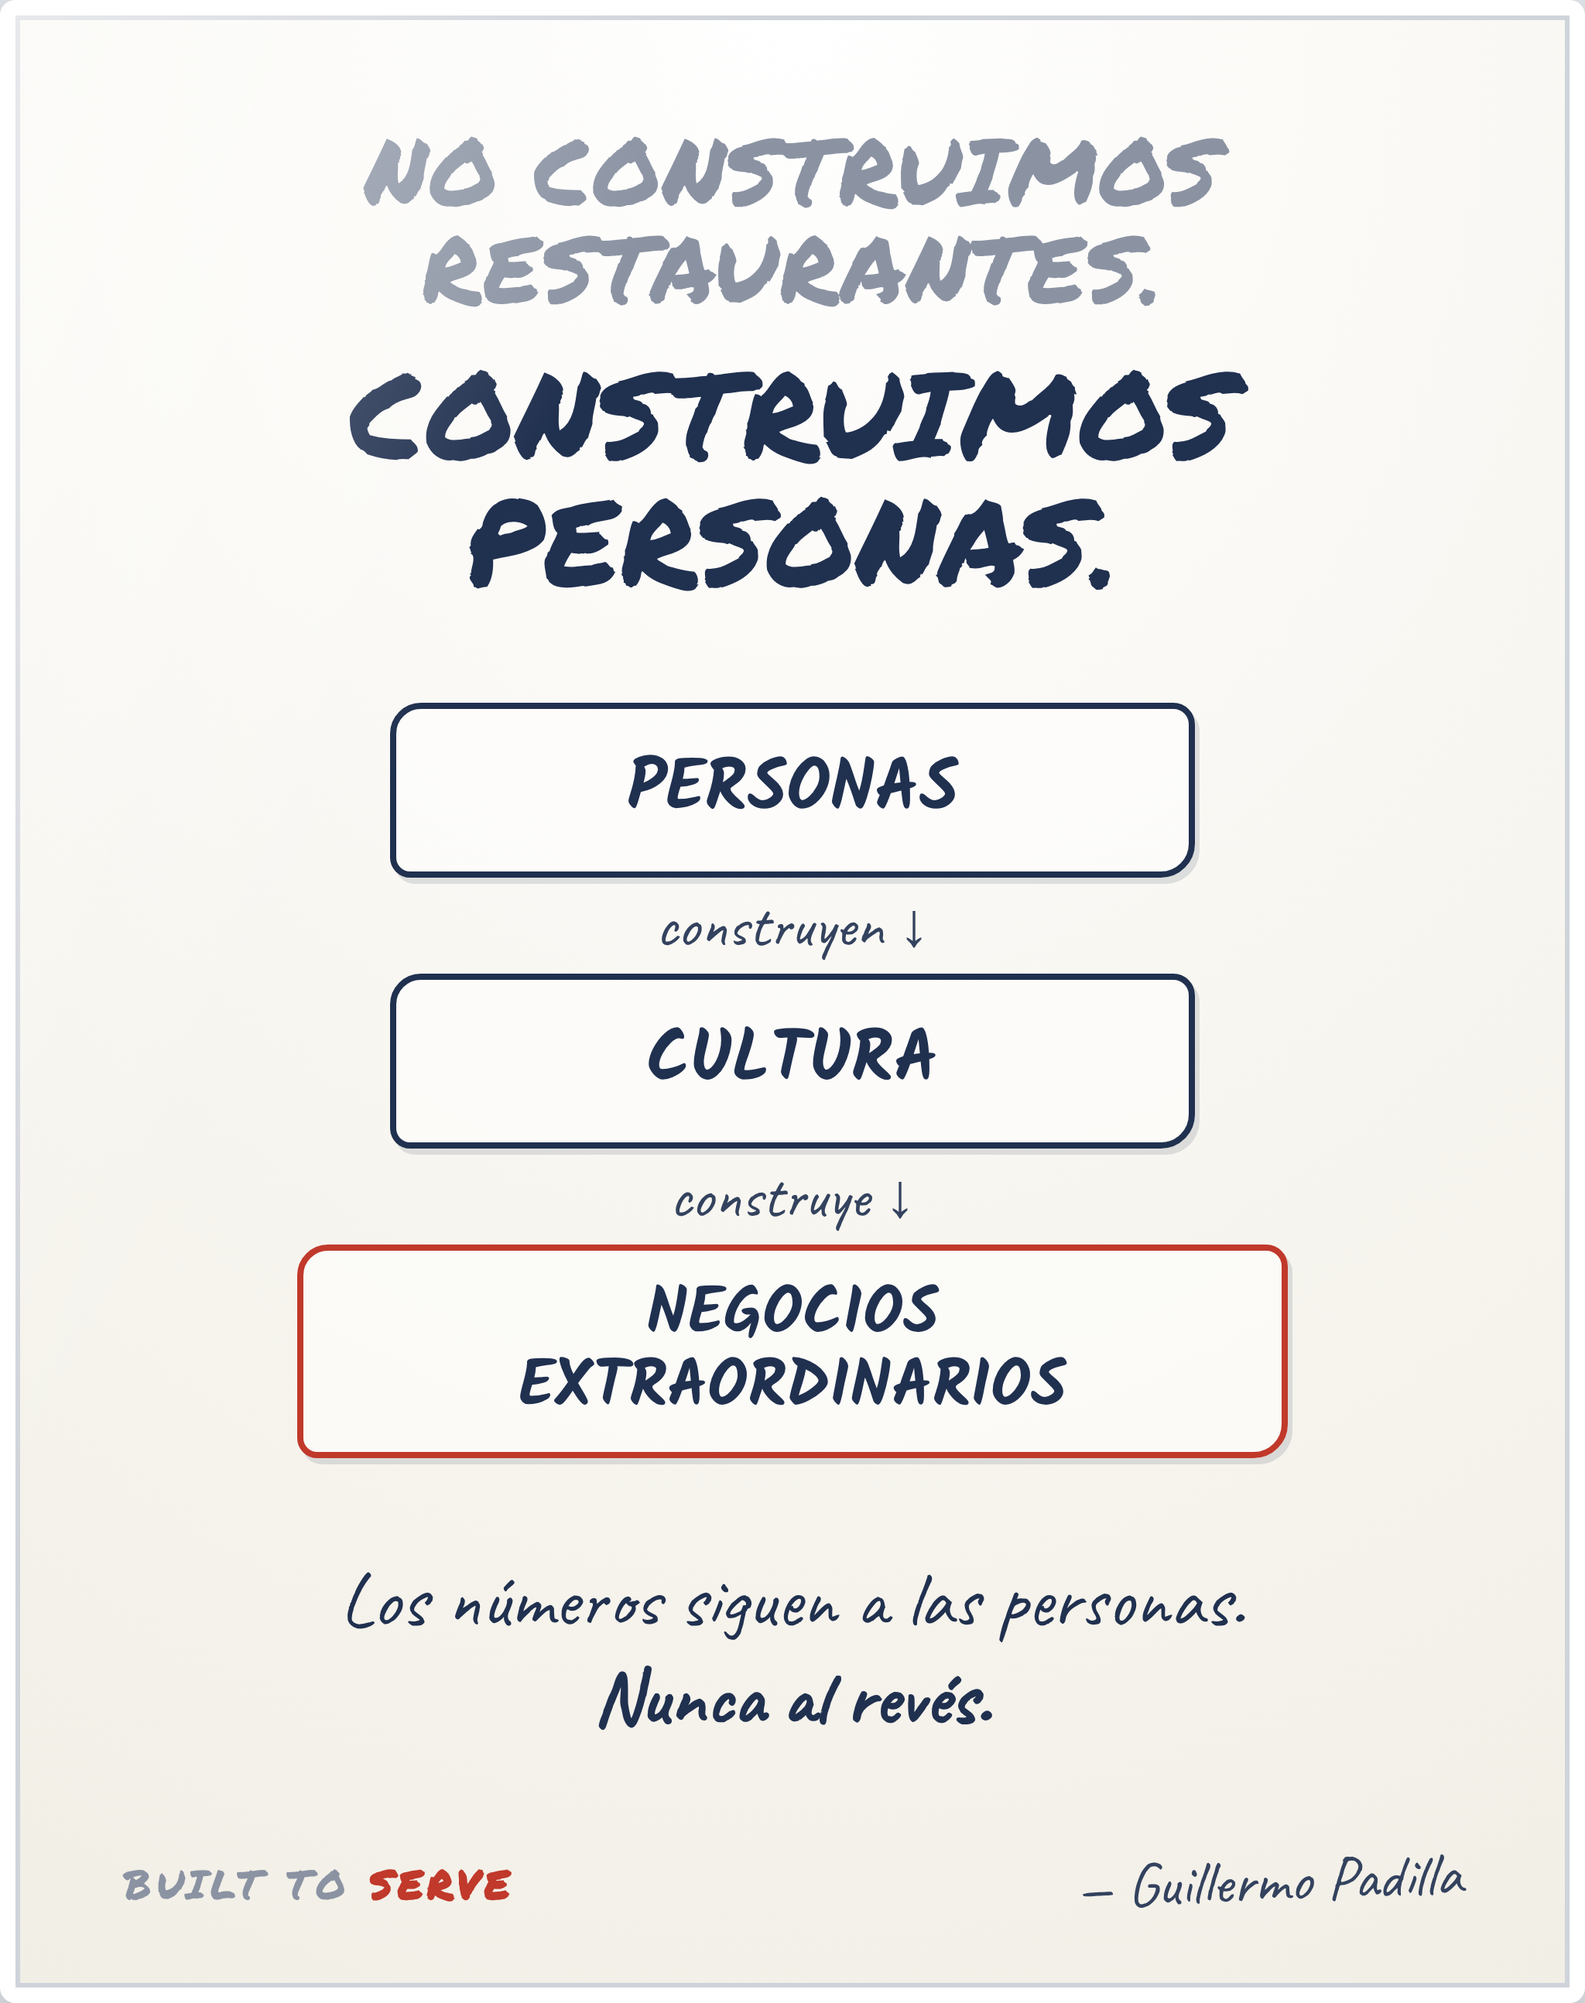
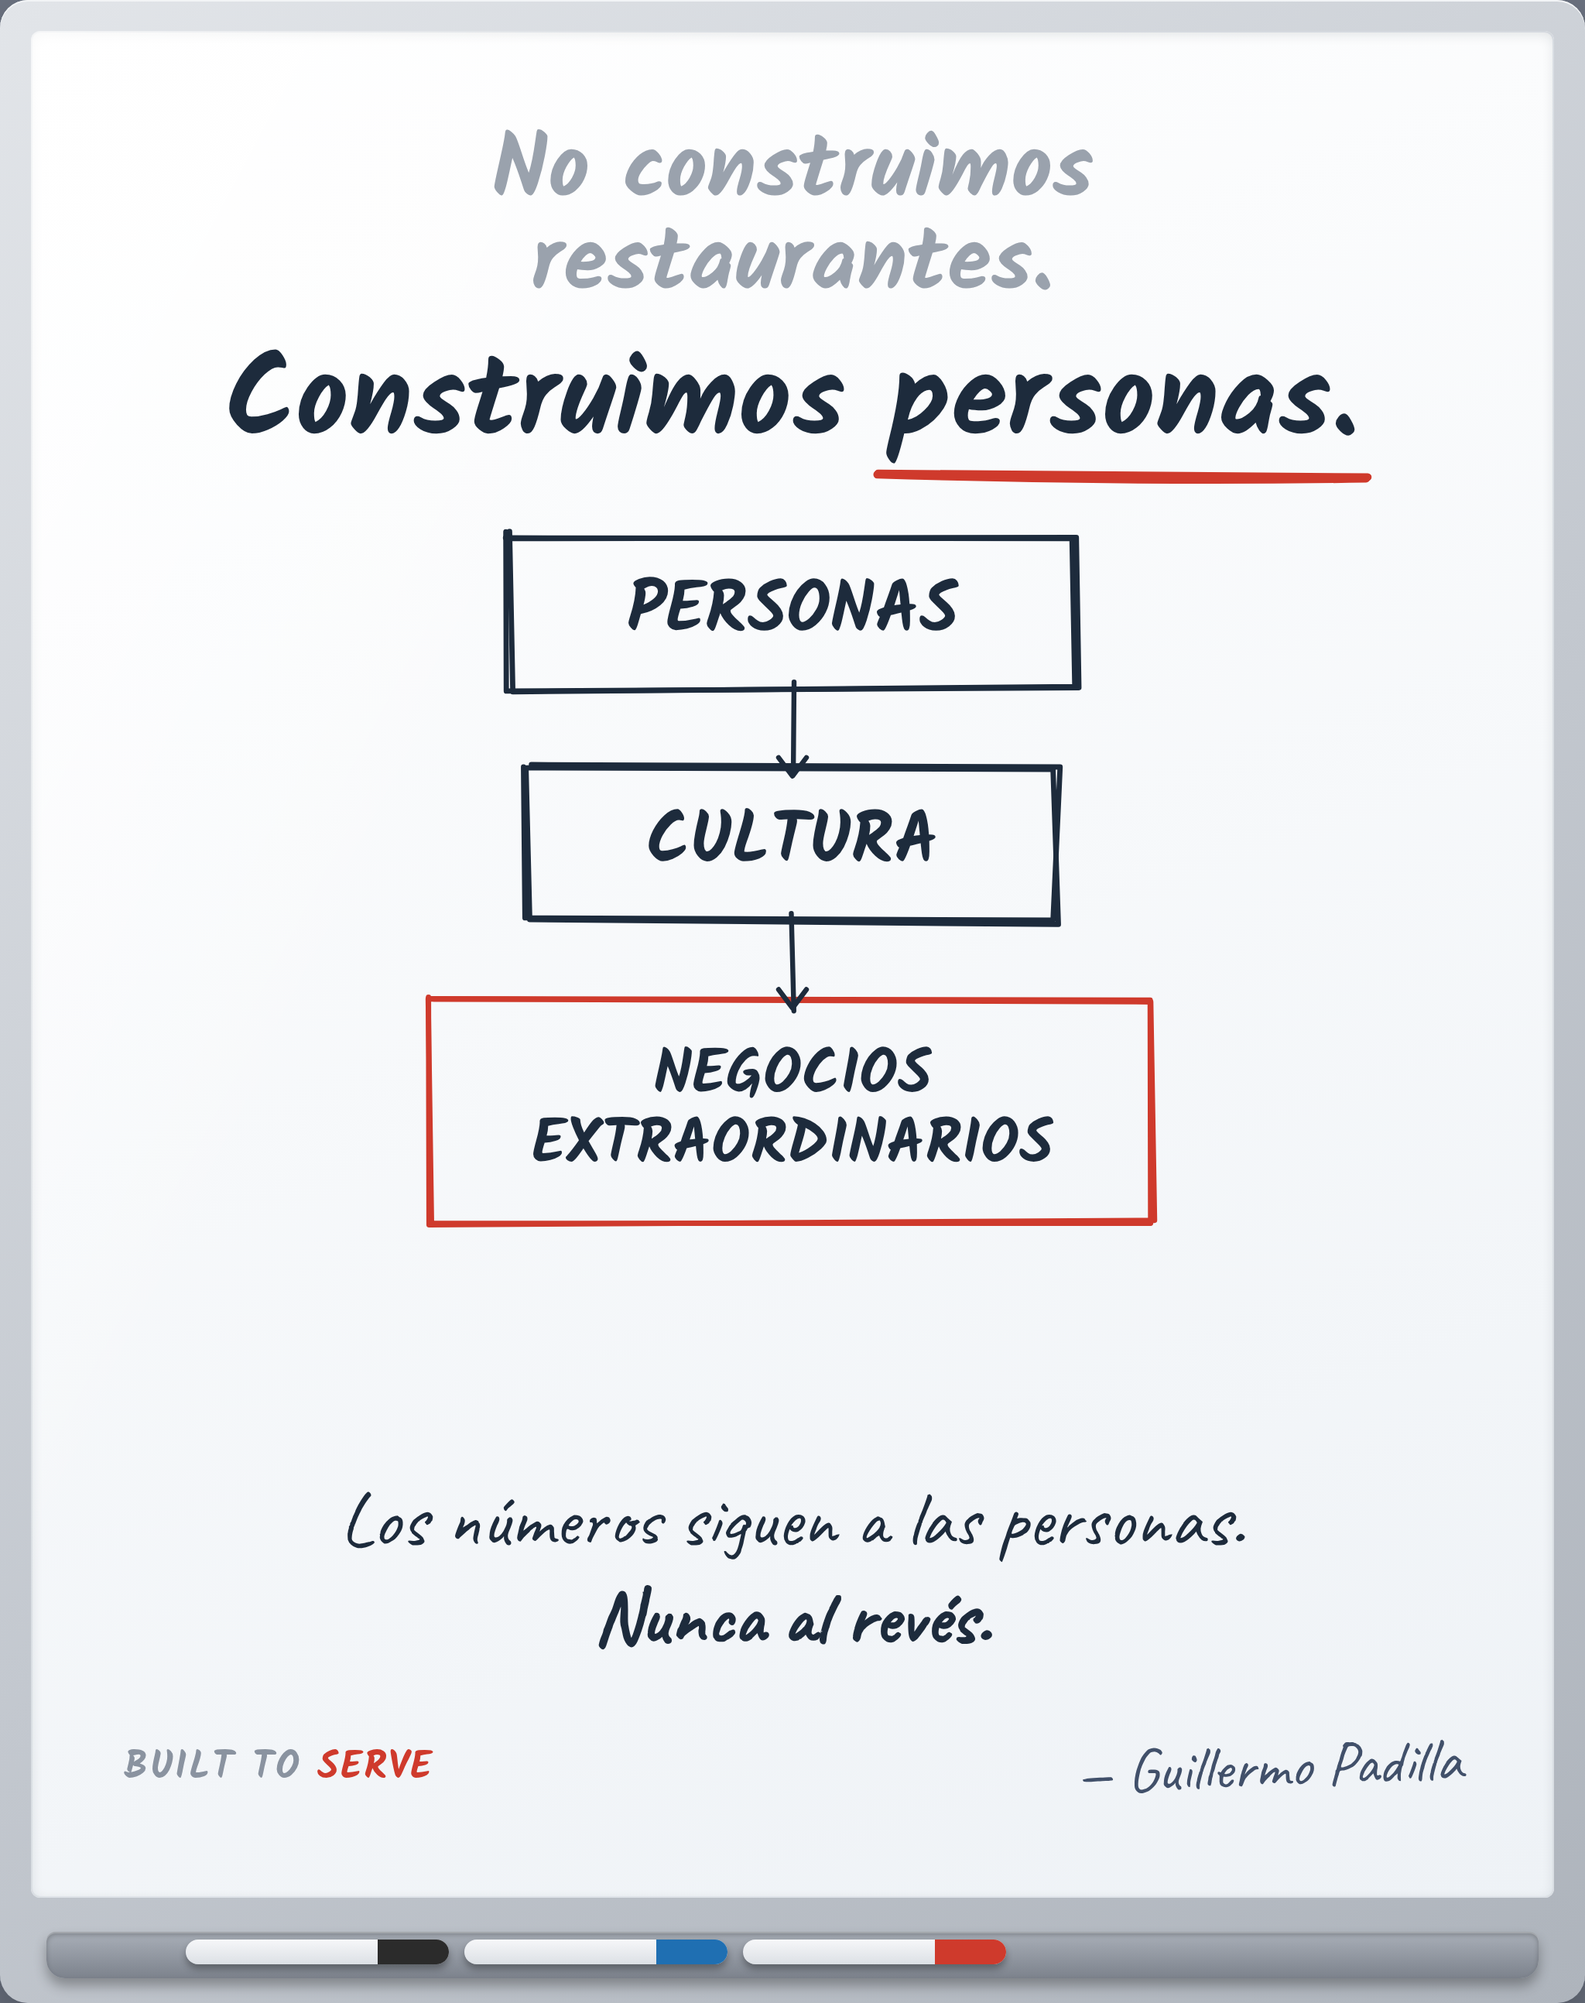
graphics: rediseño a estilo pizarrón real (marco aluminio, marcadores, trazo a mano)
Motor de trazos a mano propio en SVG (cajas/flechas/subrayados con temblor
de marcador), superficie blanca con marco de aluminio y bandeja con
marcadores. Reemplaza la versión póster anterior.

Claude-Session: https://claude.ai/code/session_01JJ9xPjka53SvgJ9SDN74dX

diff --git a/built-to-serve/tools/graphics/gen.py b/built-to-serve/tools/graphics/gen.py
@@ -1,144 +1,187 @@
 import os
 BASE = os.path.dirname(os.path.abspath(__file__))
+# gen.py vive en built-to-serve/tools/graphics cuando se copia al repo;
+# en scratch las fuentes están en ./fonts también.
 FONTS = open(os.path.join(BASE, "fonts", "fonts.css")).read()
+
+# Motor de trazos a mano (rough) propio, en el navegador. Dibuja cajas,
+# subrayados y flechas con "temblor" de marcador sobre un overlay SVG,
+# midiendo los elementos reales tras cargar las fuentes.
+DRAW = r"""
+function j(n){return (Math.random()*2-1)*n}
+function ns(){return document.createElementNS('http://www.w3.org/2000/svg','path')}
+function add(svg,d,color,w){var p=ns();p.setAttribute('d',d);p.setAttribute('fill','none');
+  p.setAttribute('stroke',color);p.setAttribute('stroke-width',w);p.setAttribute('stroke-linecap','round');
+  p.setAttribute('stroke-linejoin','round');svg.appendChild(p);}
+function rect(svg,x,y,w,h,color,sw){
+  for(var k=0;k<2;k++){var d='M '+(x+j(2.5))+' '+(y+j(2.5))+' L '+(x+w+j(2.5))+' '+(y+j(2.5))+
+    ' L '+(x+w+j(2.5))+' '+(y+h+j(2.5))+' L '+(x+j(2.5))+' '+(y+h+j(2.5))+
+    ' L '+(x-2+j(2.5))+' '+(y+j(2.5));add(svg,d,color,sw);}
+}
+function uline(svg,x,y,w,color,sw){
+  for(var k=0;k<2;k++){var mx=x+w/2; var d='M '+(x+j(2))+' '+(y+j(2))+
+    ' Q '+(mx+j(3))+' '+(y+3+j(3))+' '+(x+w+j(2))+' '+(y+j(2));add(svg,d,color,sw);}
+}
+function arrow(svg,cx,y1,y2,color,sw){
+  var d='M '+(cx+j(2))+' '+(y1+j(2))+' L '+(cx+j(2.5))+' '+(y2+j(2));add(svg,d,color,sw);
+  add(svg,'M '+(cx-9)+' '+(y2-12)+' L '+cx+' '+y2+' L '+(cx+9)+' '+(y2-12),color,sw);
+}
+var COL={ink:'#1d2b3c',red:'#cf3a2c',blue:'#1f6fb2'};
+function draw(){
+  var surf=document.querySelector('.surface');
+  var svg=document.querySelector('#ink');
+  var sb=surf.getBoundingClientRect();
+  svg.setAttribute('width',surf.clientWidth);svg.setAttribute('height',surf.clientHeight);
+  document.querySelectorAll('.ink-box').forEach(function(e){var r=e.getBoundingClientRect();
+    rect(svg,r.left-sb.left-16,r.top-sb.top-12,r.width+32,r.height+24,COL[e.dataset.c||'ink'],3.4);});
+  document.querySelectorAll('.ink-u').forEach(function(e){var r=e.getBoundingClientRect();
+    uline(svg,r.left-sb.left-6,r.bottom-sb.top+8,r.width+12,COL[e.dataset.c||'blue'],5);});
+  document.querySelectorAll('.ink-arrow').forEach(function(e){var r=e.getBoundingClientRect();
+    arrow(svg,r.left-sb.left+r.width/2,r.top-sb.top+6,r.bottom-sb.top-6,COL[e.dataset.c||'ink'],3.2);});
+  document.body.setAttribute('data-drawn','1');
+}
+if(document.fonts&&document.fonts.ready){document.fonts.ready.then(function(){setTimeout(draw,60)});}
+else{window.addEventListener('load',draw);}
+"""
 
 HEAD = """<!doctype html><html><head><meta charset="utf-8"><style>
 __FONTS__
-:root{
-  --ink:#20304f; --ink2:#33425e; --red:#c0392b; --blue:#2f6fb0;
-  --paper:#f7f5ef; --frame:#dfe2e7;
-}
+:root{ --ink:#1d2b3c; --red:#cf3a2c; --blue:#1f6fb2; }
 *{margin:0;padding:0;box-sizing:border-box}
 html,body{width:1080px;height:1350px}
-body{
-  background:var(--frame);
-  display:flex;align-items:center;justify-content:center;
-  font-family:'Hand',system-ui,sans-serif;color:var(--ink);
-}
-.board{
-  position:relative;width:1024px;height:1294px;border-radius:10px;
-  background:
-    radial-gradient(120% 120% at 50% 0%, #ffffff 0%, var(--paper) 55%, #f0ede4 100%);
-  box-shadow: inset 0 0 0 10px #ffffff, inset 0 0 0 13px #cfd3da,
-              0 18px 40px rgba(0,0,0,.18);
-  padding:78px 74px 70px;
-  overflow:hidden;
-}
-.board:before{ /* faint whiteboard sheen */
-  content:"";position:absolute;inset:0;
-  background:linear-gradient(115deg, rgba(255,255,255,.5) 0%, rgba(255,255,255,0) 30%);
-  pointer-events:none;
-}
-.title{font-family:'Marker';color:var(--ink);line-height:1.02;letter-spacing:.5px}
+body{background:#6b7280;display:flex;align-items:center;justify-content:center;
+  font-family:'Hand',system-ui,sans-serif;color:var(--ink)}
+/* Marco de aluminio */
+.board{position:relative;width:1024px;height:1294px;border-radius:18px;
+  background:linear-gradient(145deg,#e2e5e9,#c3c8cf 55%,#aeb4bc);
+  padding:20px 20px 68px;
+  box-shadow:0 22px 46px rgba(0,0,0,.30), inset 0 1px 0 #f2f4f6;}
+/* Superficie del pizarrón */
+.surface{position:relative;height:100%;background:linear-gradient(160deg,#ffffff,#eef2f6);
+  border-radius:6px;overflow:hidden;
+  box-shadow:inset 0 2px 8px rgba(20,30,45,.12), inset 0 0 0 1px #e6eaef;
+  padding:62px 58px 96px;}
+.surface:before{content:"";position:absolute;inset:0;pointer-events:none;
+  background:linear-gradient(118deg, rgba(255,255,255,.75) 0%, rgba(255,255,255,0) 34%);}
+#ink{position:absolute;inset:0;z-index:1;pointer-events:none}
+.content{position:relative;z-index:2;height:100%;display:flex;flex-direction:column}
+/* Bandeja de marcadores (sobre el marco inferior) */
+.tray{position:absolute;left:30px;right:30px;bottom:16px;height:30px;border-radius:6px 6px 12px 12px;
+  background:linear-gradient(#aab0b9,#7c828c);
+  box-shadow:0 5px 8px rgba(0,0,0,.30), inset 0 2px 3px rgba(0,0,0,.25), inset 0 1px 0 #cdd2d8;}
+.mk{position:absolute;bottom:25px;height:16px;width:170px;border-radius:8px;z-index:3;
+  background:linear-gradient(#f6f7f9,#dce0e5);box-shadow:0 3px 5px rgba(0,0,0,.32)}
+.mk:after{content:"";position:absolute;right:0;top:0;height:16px;width:46px;border-radius:0 8px 8px 0}
+.mk.k{left:120px}.mk.k:after{background:#2b2b2b}
+.mk.b{left:300px}.mk.b:after{background:var(--blue)}
+.mk.r{left:480px}.mk.r:after{background:var(--red)}
+/* Tipografía a mano */
+.t{font-family:'Hand';font-weight:700;color:var(--ink);line-height:1.04}
 .hand{font-family:'Hand'}
 .cav{font-family:'Caveat'}
-.u{position:relative;display:inline-block}
-.u:after{content:"";position:absolute;left:-6px;right:-6px;bottom:-8px;height:12px;
-  background:var(--blue);border-radius:9px;transform:rotate(-1.2deg);opacity:.9;z-index:-1}
-.u.red:after{background:var(--red)}
-.box{border:4px solid var(--ink);border-radius:20px 14px 22px 13px;
-  background:rgba(255,255,255,.55);box-shadow:3px 4px 0 rgba(32,48,79,.13)}
-.sig{position:absolute;right:80px;bottom:54px;font-family:'Caveat';
-  font-size:40px;color:var(--ink2);transform:rotate(-2deg)}
-.mark{position:absolute;left:80px;bottom:58px;font-family:'Marker';
-  font-size:26px;letter-spacing:3px;color:#8b93a3}
-.mark b{color:var(--red)}
-</style></head><body><div class="board">
+.wm{position:absolute;left:60px;bottom:64px;z-index:2;font-family:'Hand';font-weight:700;
+  font-size:25px;letter-spacing:1px;color:#8a93a0}
+.wm b{color:var(--red)}
+.sig{position:absolute;right:60px;bottom:60px;z-index:2;font-family:'Caveat';
+  font-size:40px;color:#41506a;transform:rotate(-2deg)}
+</style></head><body><div class="board"><div class="surface">
+<svg id="ink"></svg>
+<div class="content">
 """.replace("__FONTS__", FONTS)
 
 FOOT = """
-<div class="mark">BUILT TO <b>SERVE</b></div>
+</div>
+<div class="wm">BUILT TO <b>SERVE</b></div>
 <div class="sig">— Guillermo Padilla</div>
-</div></body></html>"""
+</div>
+<div class="tray"></div>
+<div class="mk k"></div><div class="mk b"></div><div class="mk r"></div>
+</div>
+<script>__DRAW__</script>
+</body></html>""".replace("__DRAW__", DRAW)
 
 # ---------- POST 1 : Filosofía ----------
 post1 = """
-<div style="height:100%;display:flex;flex-direction:column">
-  <div style="text-align:center">
-    <div class="title" style="font-size:60px;color:#8b93a3;line-height:1.05">NO CONSTRUIMOS<br>RESTAURANTES.</div>
-    <div class="title" style="font-size:78px;margin-top:22px;line-height:1.05">
-       CONSTRUIMOS<br><span class="u">PERSONAS</span>.</div>
-  </div>
+<div style="text-align:center">
+  <div class="t" style="font-size:58px;color:#9aa2ad">No construimos<br>restaurantes.</div>
+  <div class="t" style="font-size:74px;margin-top:20px">Construimos
+     <span class="ink-u" data-c="red" style="display:inline-block">personas.</span></div>
+</div>
 
-  <div style="margin-top:64px;display:flex;flex-direction:column;align-items:center;gap:6px">
-    <div class="box" style="width:520px;text-align:center;padding:16px 0;font-weight:700;font-size:46px">PERSONAS</div>
-    <div class="cav" style="font-size:40px;color:var(--ink2)">construyen ↓</div>
-    <div class="box" style="width:520px;text-align:center;padding:16px 0;font-weight:700;font-size:46px">CULTURA</div>
-    <div class="cav" style="font-size:40px;color:var(--ink2)">construye ↓</div>
-    <div class="box" style="width:640px;text-align:center;padding:18px 0;font-weight:700;font-size:42px;line-height:1.12;border-color:var(--red)">
-       NEGOCIOS<br>EXTRAORDINARIOS</div>
-  </div>
+<div style="margin-top:58px;display:flex;flex-direction:column;align-items:center;gap:0">
+  <div class="ink-box t" style="font-size:46px;padding:14px 60px">PERSONAS</div>
+  <div class="ink-arrow" style="width:140px;height:74px"></div>
+  <div class="ink-box t" style="font-size:46px;padding:14px 60px">CULTURA</div>
+  <div class="ink-arrow" style="width:140px;height:74px"></div>
+  <div class="ink-box t" data-c="red" style="font-size:40px;padding:16px 48px;text-align:center;line-height:1.12">
+     NEGOCIOS<br>EXTRAORDINARIOS</div>
+</div>
 
-  <div style="margin-top:auto;padding-bottom:96px;text-align:center">
-    <div class="cav" style="font-size:50px;color:var(--ink)">
-       Los números siguen a las personas.<br>
-       <span class="u red" style="font-weight:700">Nunca al revés.</span></div>
-  </div>
+<div style="margin-top:auto;padding-bottom:54px;text-align:center">
+  <div class="cav" style="font-size:50px;color:var(--ink)">
+     Los números siguen a las personas.<br>
+     <b>Nunca al revés.</b></div>
 </div>
 """
 
 # ---------- POST 2 : Cuatro Pilares ----------
-def pilar(num, nombre, linea, color="var(--ink)"):
+def pilar(num, nombre, linea, c="ink"):
     return f"""
-    <div class="box" style="padding:26px 28px;border-color:{color}">
-      <div style="display:flex;align-items:baseline;gap:14px">
-        <span class="title" style="font-size:46px;color:{color}">{num}</span>
-        <span class="title" style="font-size:40px">{nombre}</span>
+    <div class="ink-box" data-c="{c}" style="padding:22px 26px">
+      <div style="display:flex;align-items:baseline;gap:12px">
+        <span class="t" style="font-size:42px;color:var(--{c})">{num}.</span>
+        <span class="t" style="font-size:38px">{nombre}</span>
       </div>
-      <div class="hand" style="font-size:34px;color:var(--ink2);margin-top:8px">{linea}</div>
+      <div class="hand" style="font-size:32px;color:#41506a;margin-top:6px">{linea}</div>
     </div>"""
 
 post2 = f"""
 <div style="text-align:center">
-  <div class="title" style="font-size:96px"><span class="u">LOS 4 PILARES</span></div>
-  <div class="cav" style="font-size:42px;color:var(--ink2);margin-top:30px">
+  <div class="t" style="font-size:76px"><span class="ink-u">Los 4 Pilares</span></div>
+  <div class="cav" style="font-size:42px;color:#41506a;margin-top:30px">
      El talento se sobrevalora. La constancia gana.</div>
 </div>
 
-<div style="margin-top:50px;display:grid;grid-template-columns:1fr 1fr;gap:30px">
+<div style="margin-top:56px;display:grid;grid-template-columns:1fr 1fr;gap:42px 50px">
   {pilar("1","HOSPITALIDAD","Servir antes de esperar.")}
   {pilar("2","MENTALIDAD","La actitud se elige.")}
   {pilar("3","PROFESIONALISMO","Algo más grande que tú.")}
-  {pilar("4","DISCIPLINA","Aunque la motivación se vaya.","var(--red)")}
+  {pilar("4","DISCIPLINA","Aunque la motivación se vaya.","red")}
 </div>
 
-<div style="position:absolute;left:74px;right:74px;bottom:150px;text-align:center">
-  <div class="cav" style="font-size:52px">
-     No son talentos.
-     <span class="u red" style="font-weight:700">Son decisiones.</span></div>
+<div style="margin-top:auto;padding-bottom:54px;text-align:center">
+  <div class="cav" style="font-size:52px">No son talentos. <b>Son decisiones.</b></div>
 </div>
 """
 
-# ---------- POST 3 : Hospitalidad (contraste NO/SÍ) ----------
+# ---------- POST 3 : Hospitalidad (contraste) ----------
 post3 = """
 <div style="text-align:center">
-  <div class="title" style="font-size:80px"><span class="u">¿QUIÉN VA PRIMERO?</span></div>
+  <div class="t" style="font-size:66px"><span class="ink-u">¿Quién va primero?</span></div>
 </div>
 
-<div style="margin-top:56px;display:flex;align-items:center;justify-content:center;gap:30px">
-  <div class="box" style="width:380px;height:230px;border-color:var(--red);
+<div style="margin-top:58px;display:flex;align-items:center;justify-content:center;gap:44px">
+  <div class="ink-box" data-c="red" style="width:330px;height:210px;
        display:flex;flex-direction:column;align-items:center;justify-content:center">
-    <div class="title" style="font-size:40px;color:var(--red)">EL MITO</div>
-    <div class="hand" style="font-size:38px;font-weight:700;margin-top:14px;text-align:center">El cliente<br>primero</div>
+    <div class="t" style="font-size:34px;color:var(--red)">EL MITO</div>
+    <div class="hand" style="font-size:34px;font-weight:700;margin-top:12px;text-align:center;line-height:1.2">El cliente<br>primero</div>
   </div>
-  <div class="title" style="font-size:80px;color:var(--ink2)">&ne;</div>
-  <div class="box" style="width:380px;height:230px;border-color:var(--blue);
+  <div class="t" style="font-size:72px;color:#41506a">&ne;</div>
+  <div class="ink-box" data-c="blue" style="width:330px;height:210px;
        display:flex;flex-direction:column;align-items:center;justify-content:center">
-    <div class="title" style="font-size:40px;color:var(--blue)">LA VERDAD</div>
-    <div class="hand" style="font-size:38px;font-weight:700;margin-top:14px;text-align:center">El equipo<br>primero</div>
+    <div class="t" style="font-size:34px;color:var(--blue)">LA VERDAD</div>
+    <div class="hand" style="font-size:34px;font-weight:700;margin-top:12px;text-align:center;line-height:1.2">El equipo<br>primero</div>
   </div>
 </div>
 
-<div class="box" style="margin-top:50px;padding:30px 34px;text-align:center">
-  <div class="hand" style="font-size:40px;line-height:1.35">
+<div class="ink-box" style="margin-top:62px;padding:28px 30px;text-align:center">
+  <div class="hand" style="font-size:38px;line-height:1.4">
     Como tratas a tu equipo a las <b>4pm</b><br>
     es como trata al cliente a las <b>9pm</b>.</div>
 </div>
 
-<div style="position:absolute;left:74px;right:74px;bottom:140px;text-align:center">
-  <div class="cav" style="font-size:54px">
-    La hospitalidad
-    <span class="u" style="font-weight:700">empieza dentro</span>.</div>
+<div style="margin-top:auto;padding-bottom:54px;text-align:center">
+  <div class="cav" style="font-size:54px">La hospitalidad <b>empieza dentro.</b></div>
 </div>
 """
 
